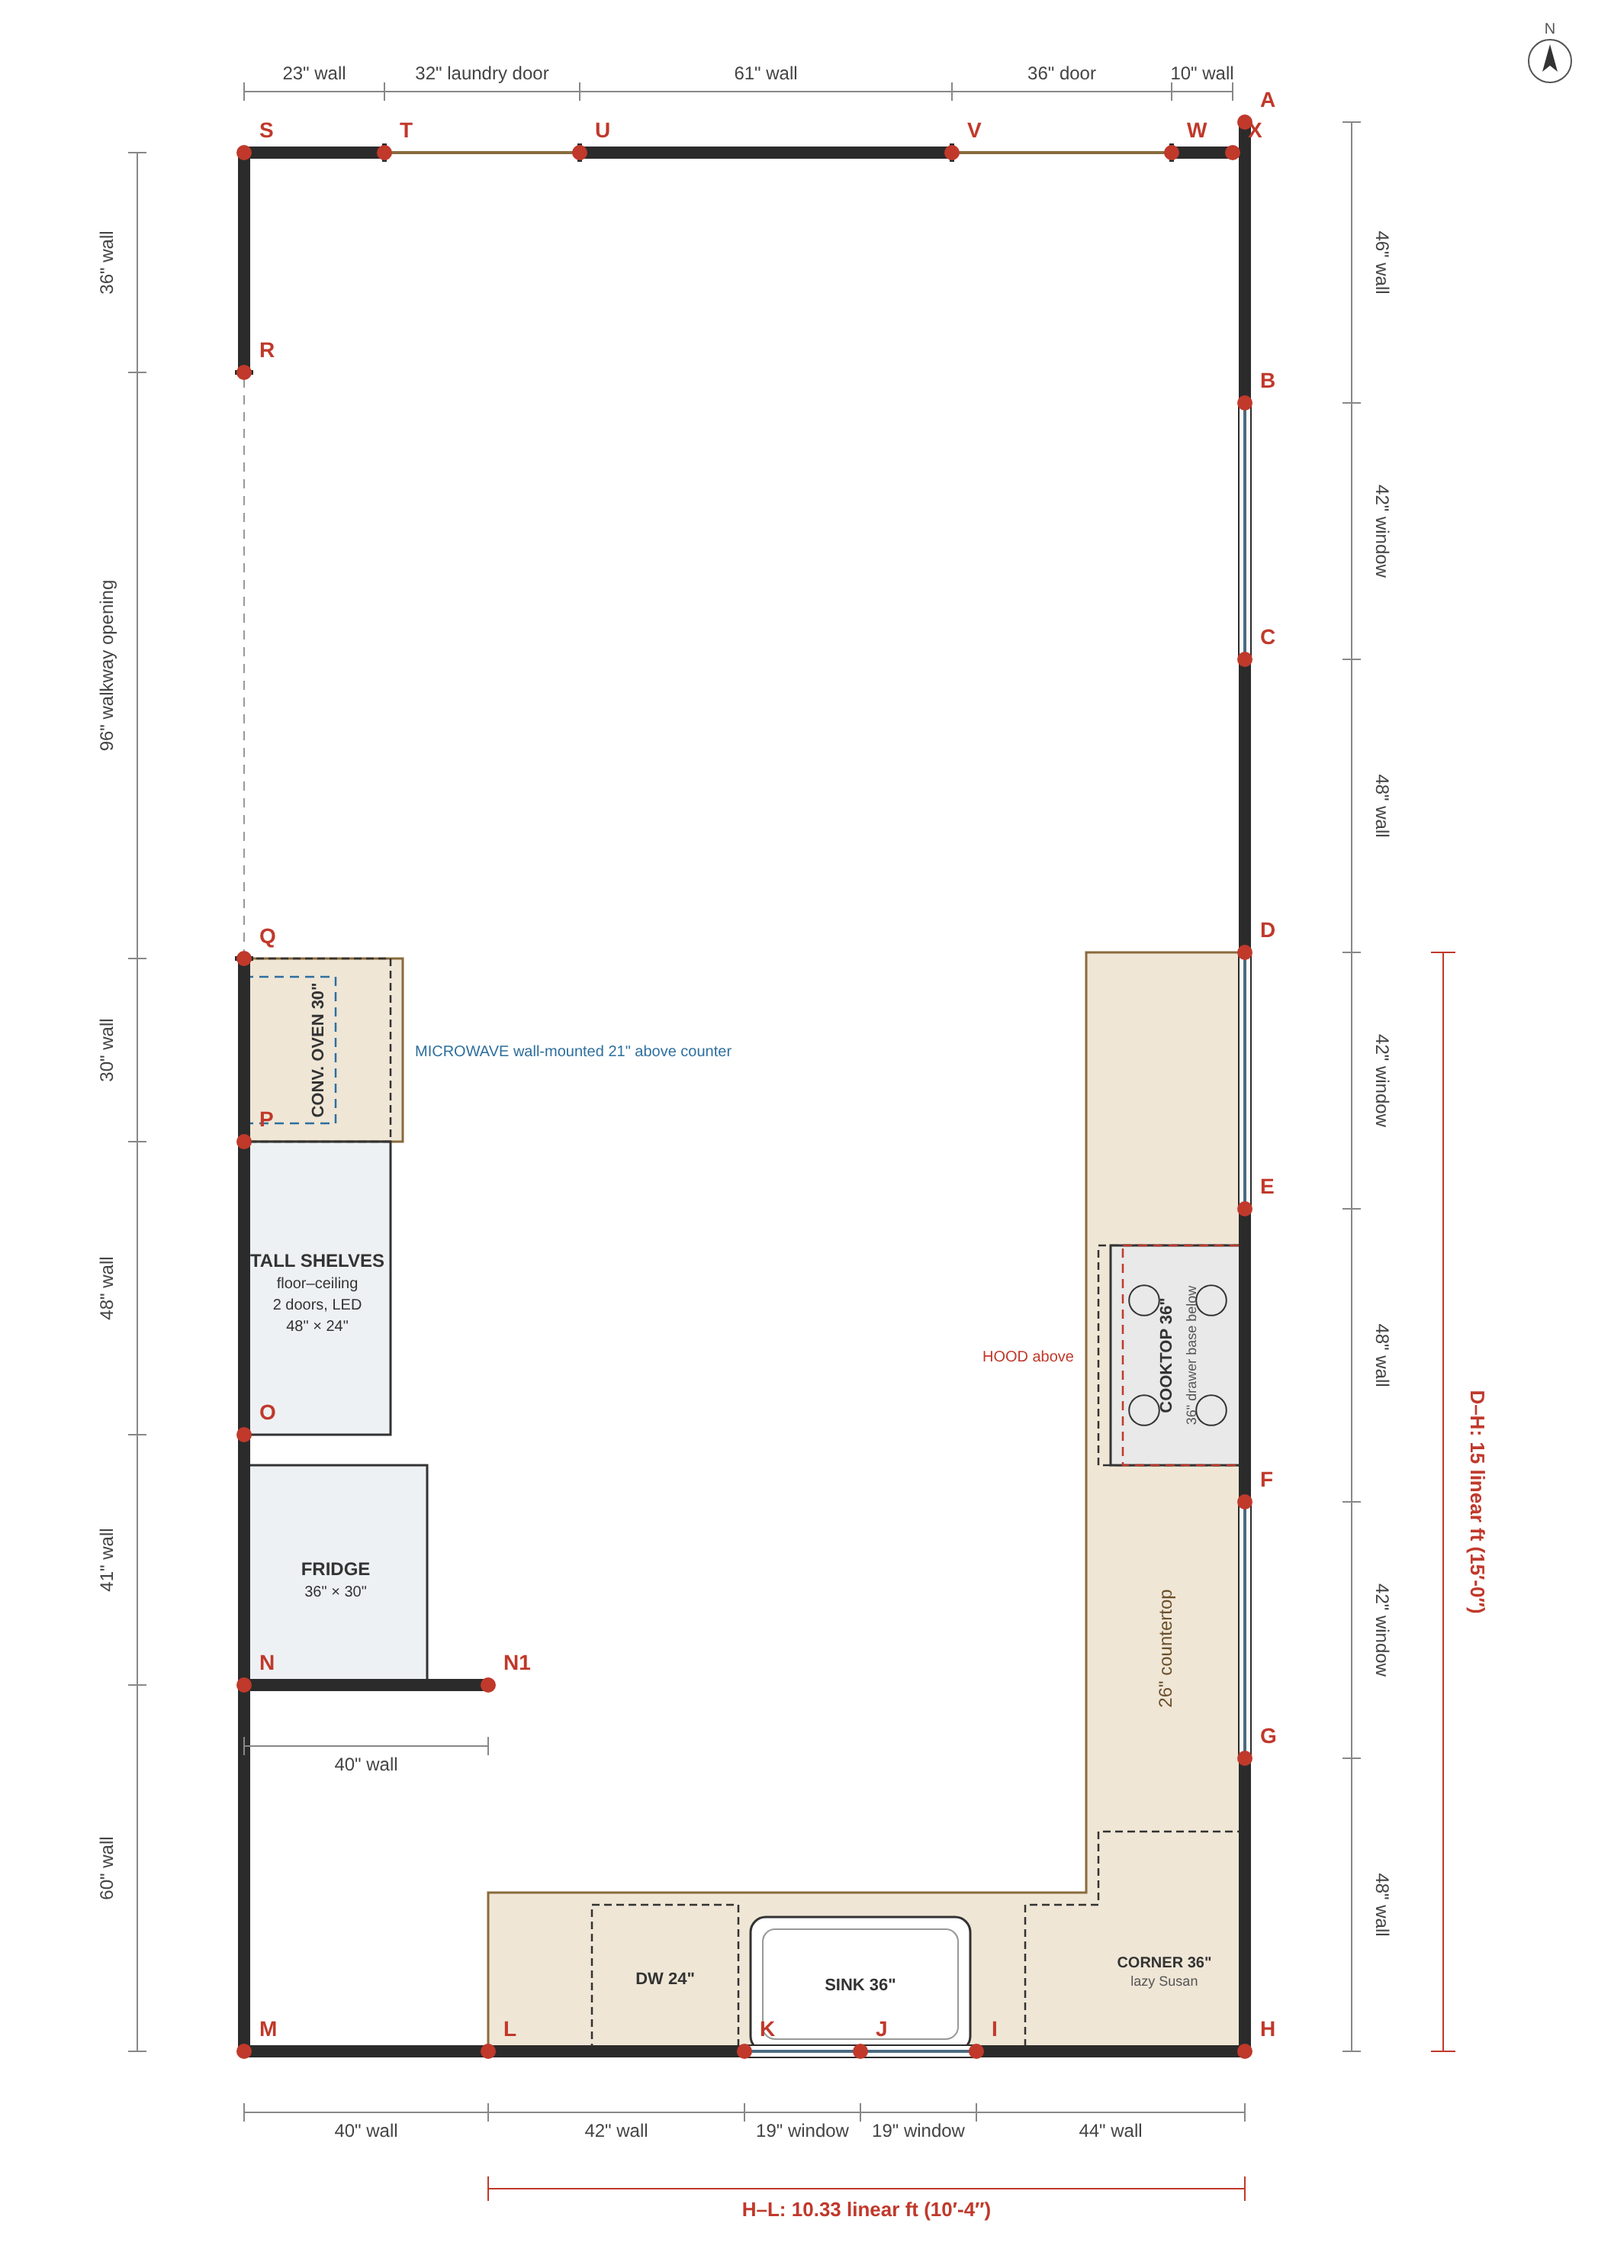
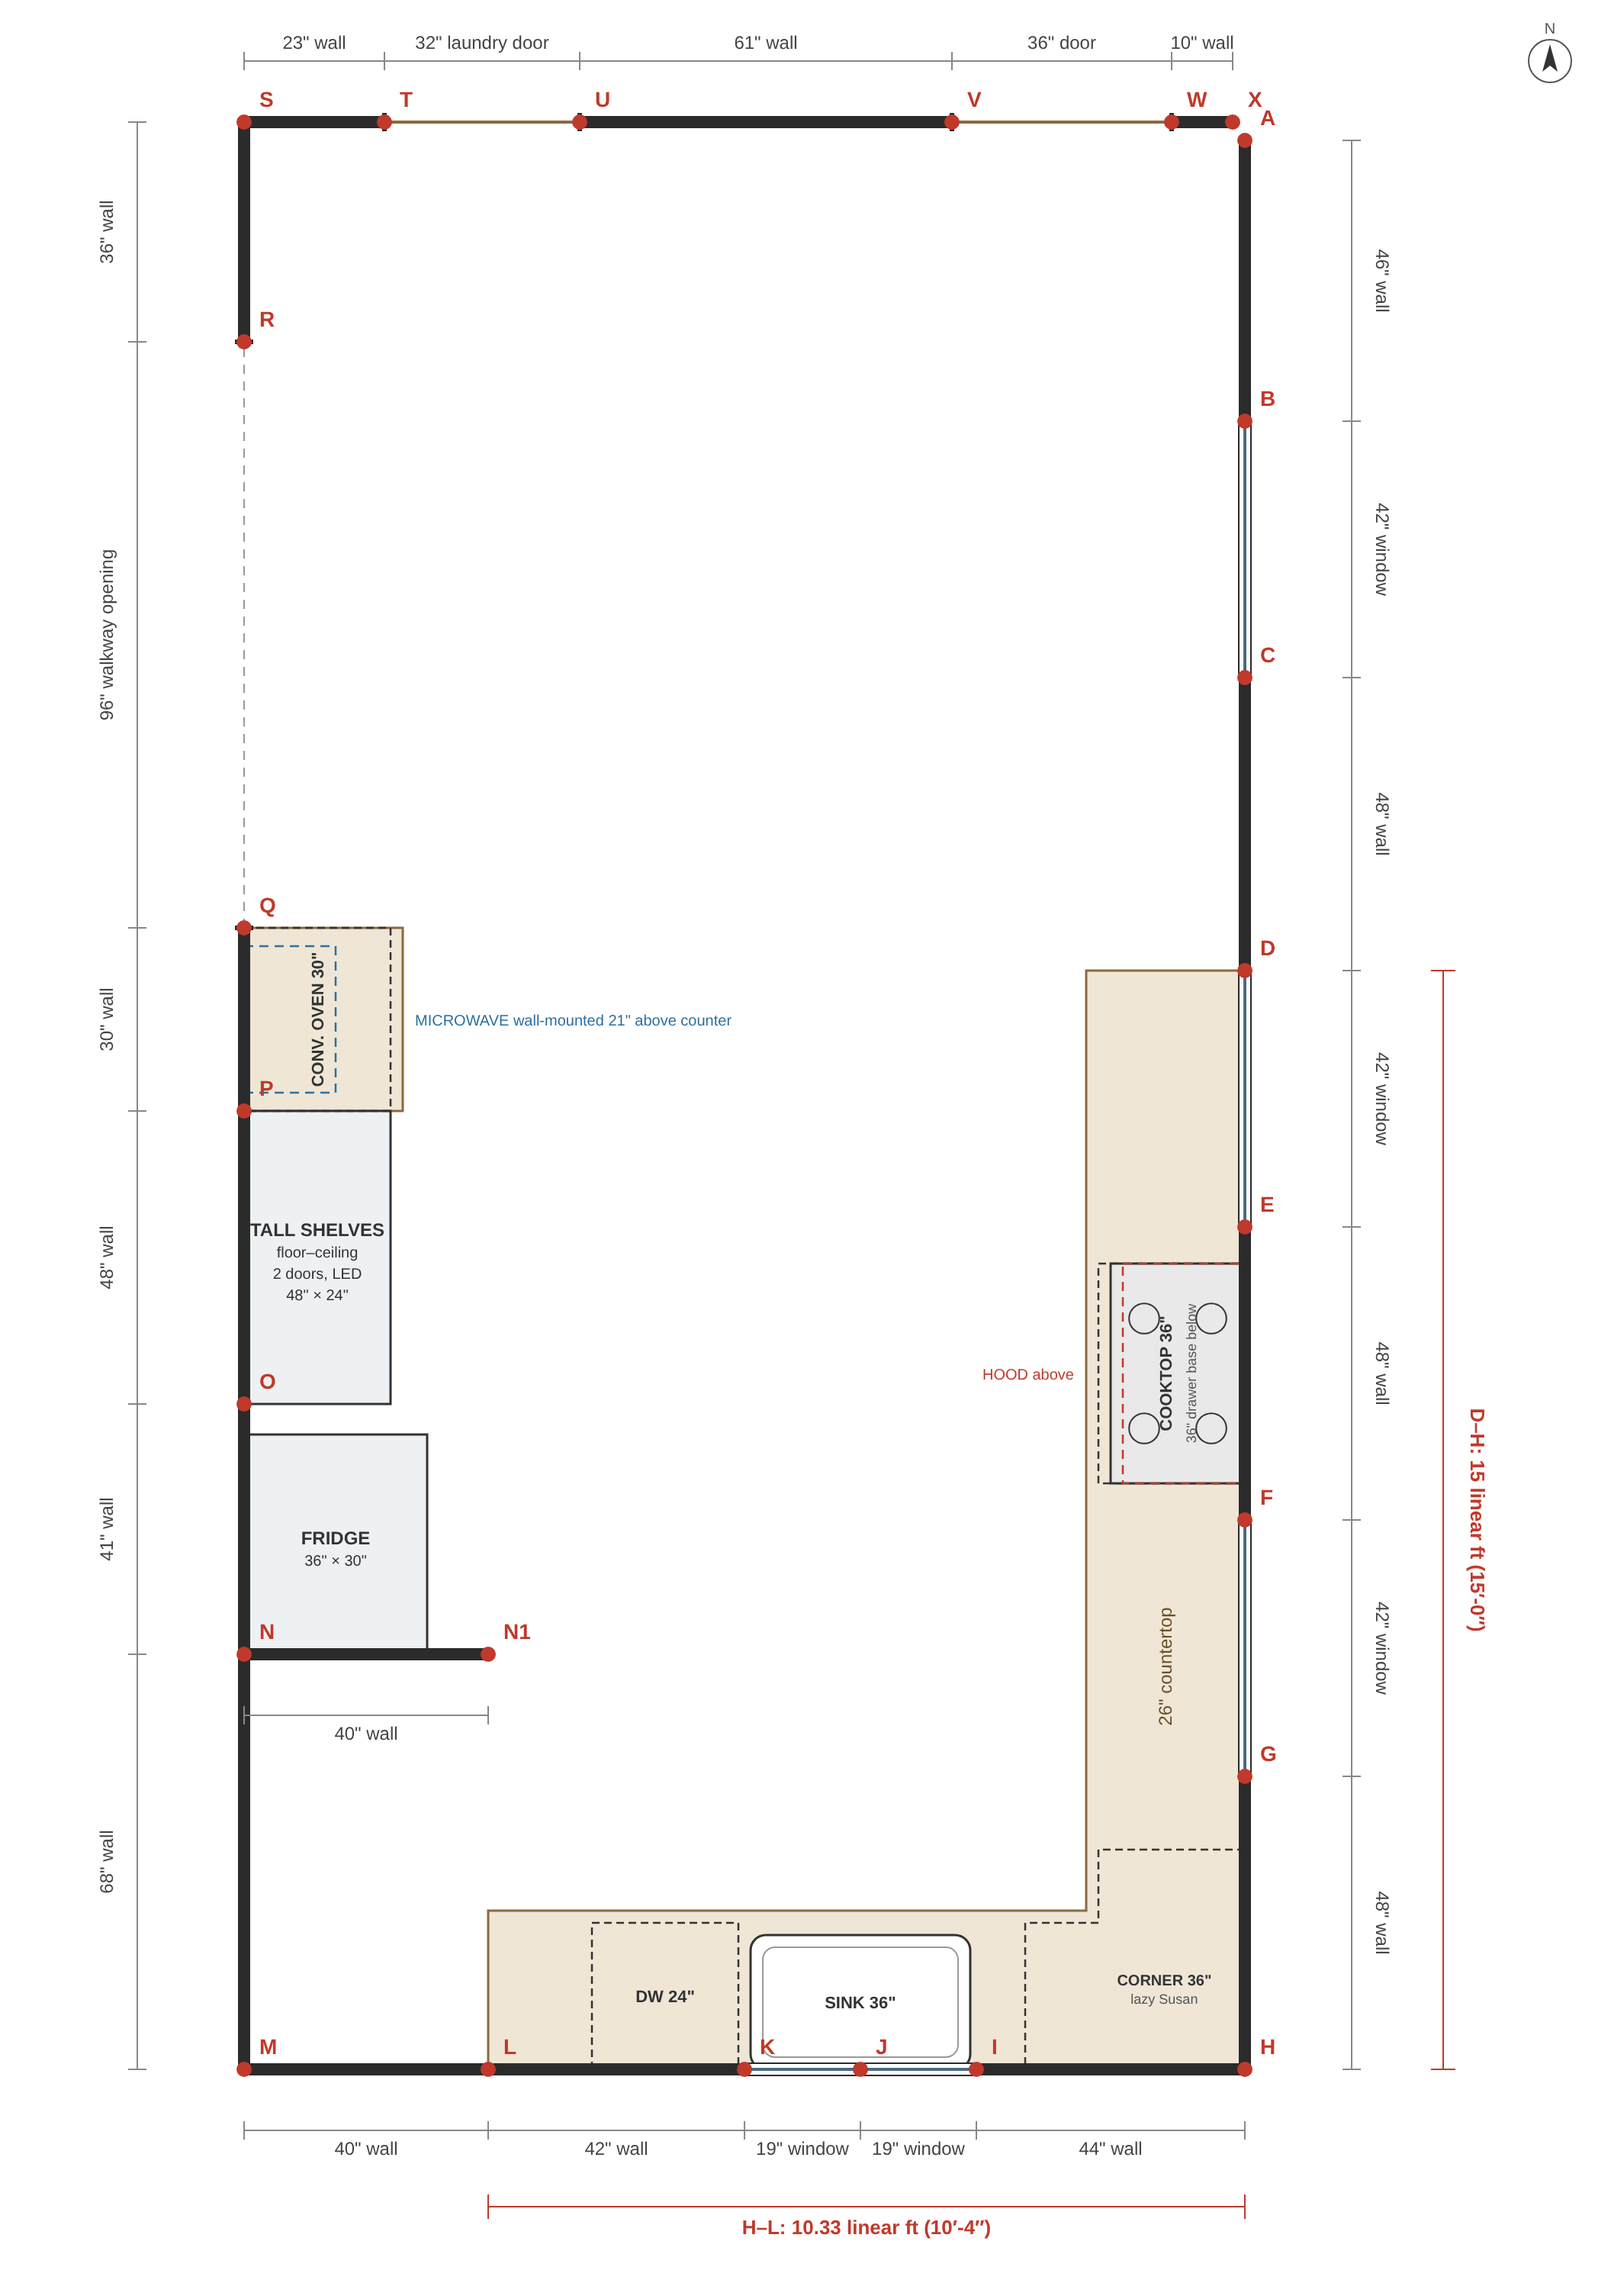
Floor plan: M-N wall is 68in
Claude-Session: https://claude.ai/code/session_01N1gJVqnW36KpNULQpj6QJQ

diff --git a/floorplans/build_floorplan.py b/floorplans/build_floorplan.py
@@ -21,7 +21,7 @@ SEGMENTS = [
     ("W", 19, "window", "K"),
     ("W", 42, "wall", "L"),
     ("W", 40, "wall", "M"),
-    ("N", 60, "wall", "N"),
+    ("N", 68, "wall", "N"),
     ("E", 40, "wall", "N1"),
     ("N", 41, "wall", "O", "N"),
     ("N", 48, "wall", "P"),
